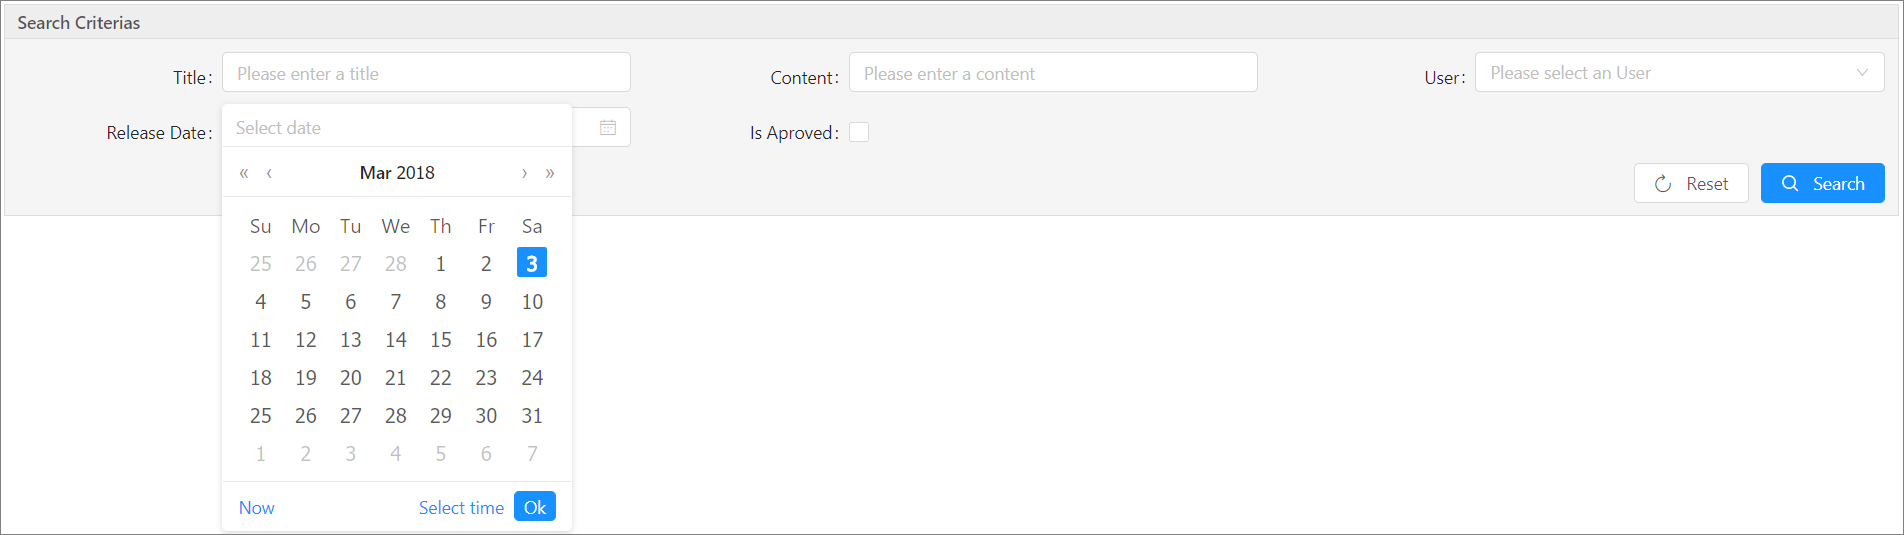
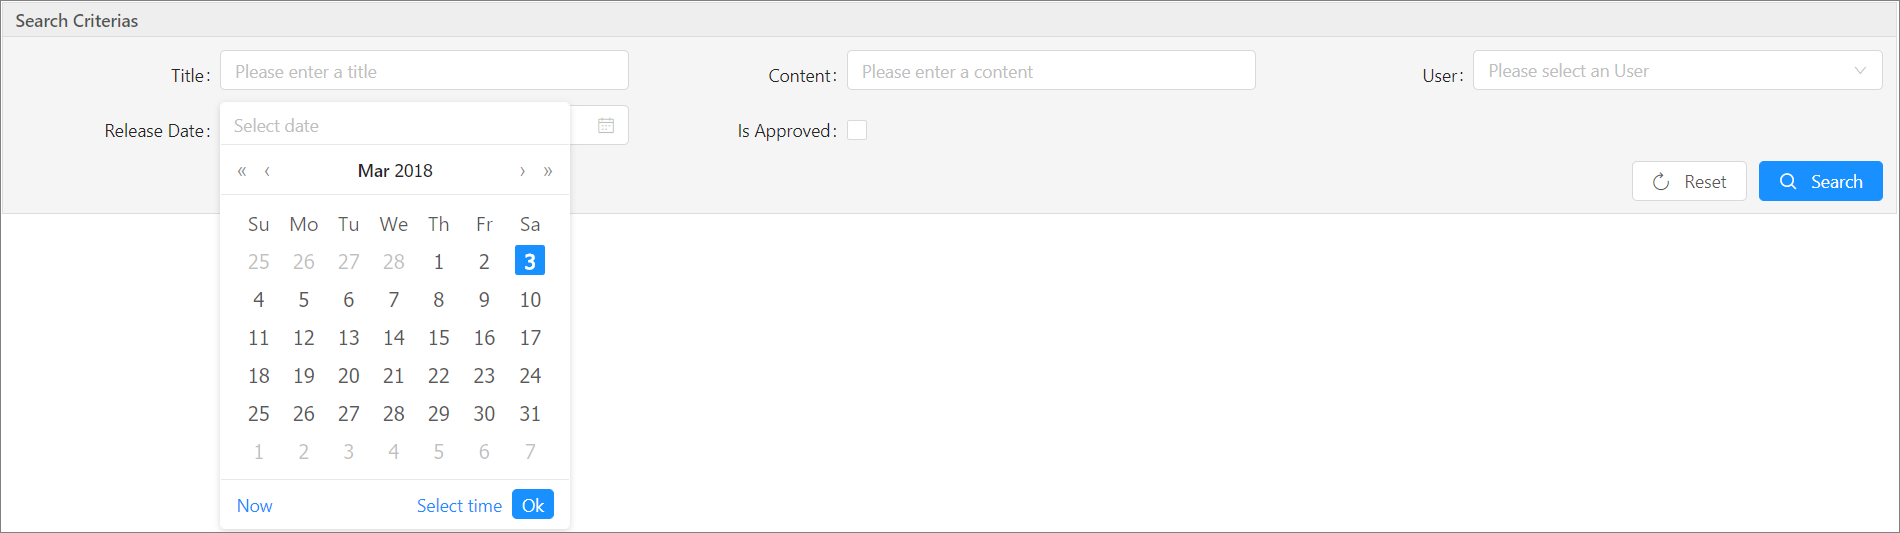
Update typo, Remove wrong-placed code

diff --git a/dev/js/index.js b/dev/js/index.js
@@ -11,18 +11,3 @@ Object.defineProperty(components, 'CRUDComponent', {
 });
 
 module.exports = components;
-
-ReactDOM.render(
-  <CRUDComponent
-    model={Post}
-    searchTitle="Search Criterias"
-    searchFields={[
-      'title',
-      'body',
-      'userId',
-      'releaseDate',
-      'approved'
-    ]}
-  />,
-  document.getElementById('app')
-)

diff --git a/README.md b/README.md
@@ -55,7 +55,7 @@ Post.setConfig('fields', {
     }
   },
   approved: {
-    title: 'Is Aproved',
+    title: 'Is Approved',
     searchInput: {
       type: 'checkbox',
       defaultValue: false
